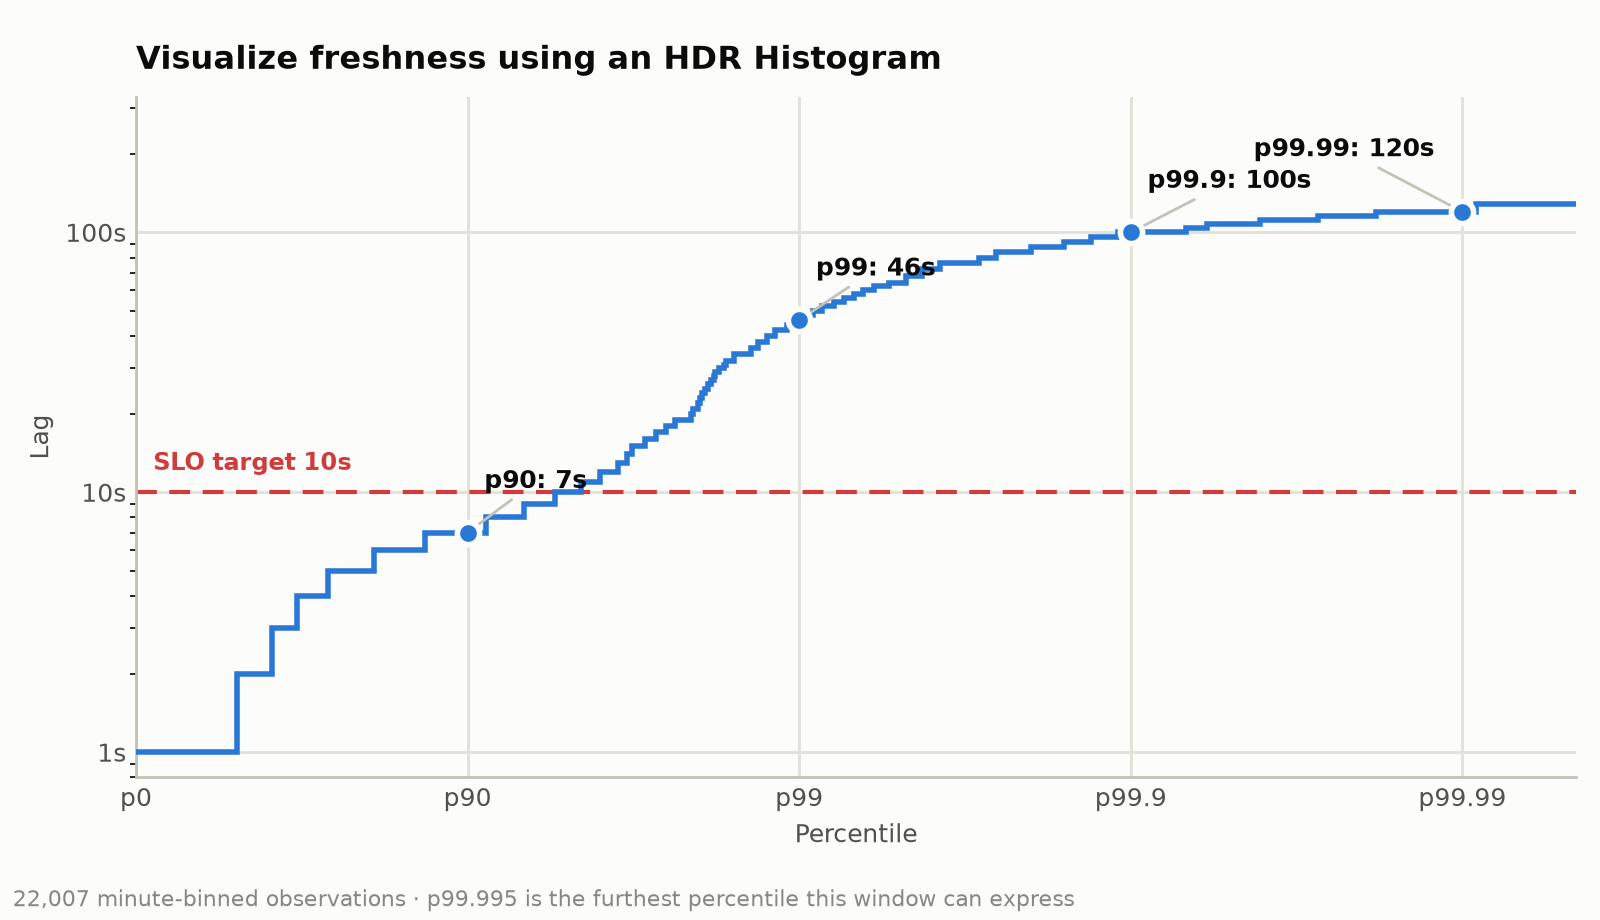
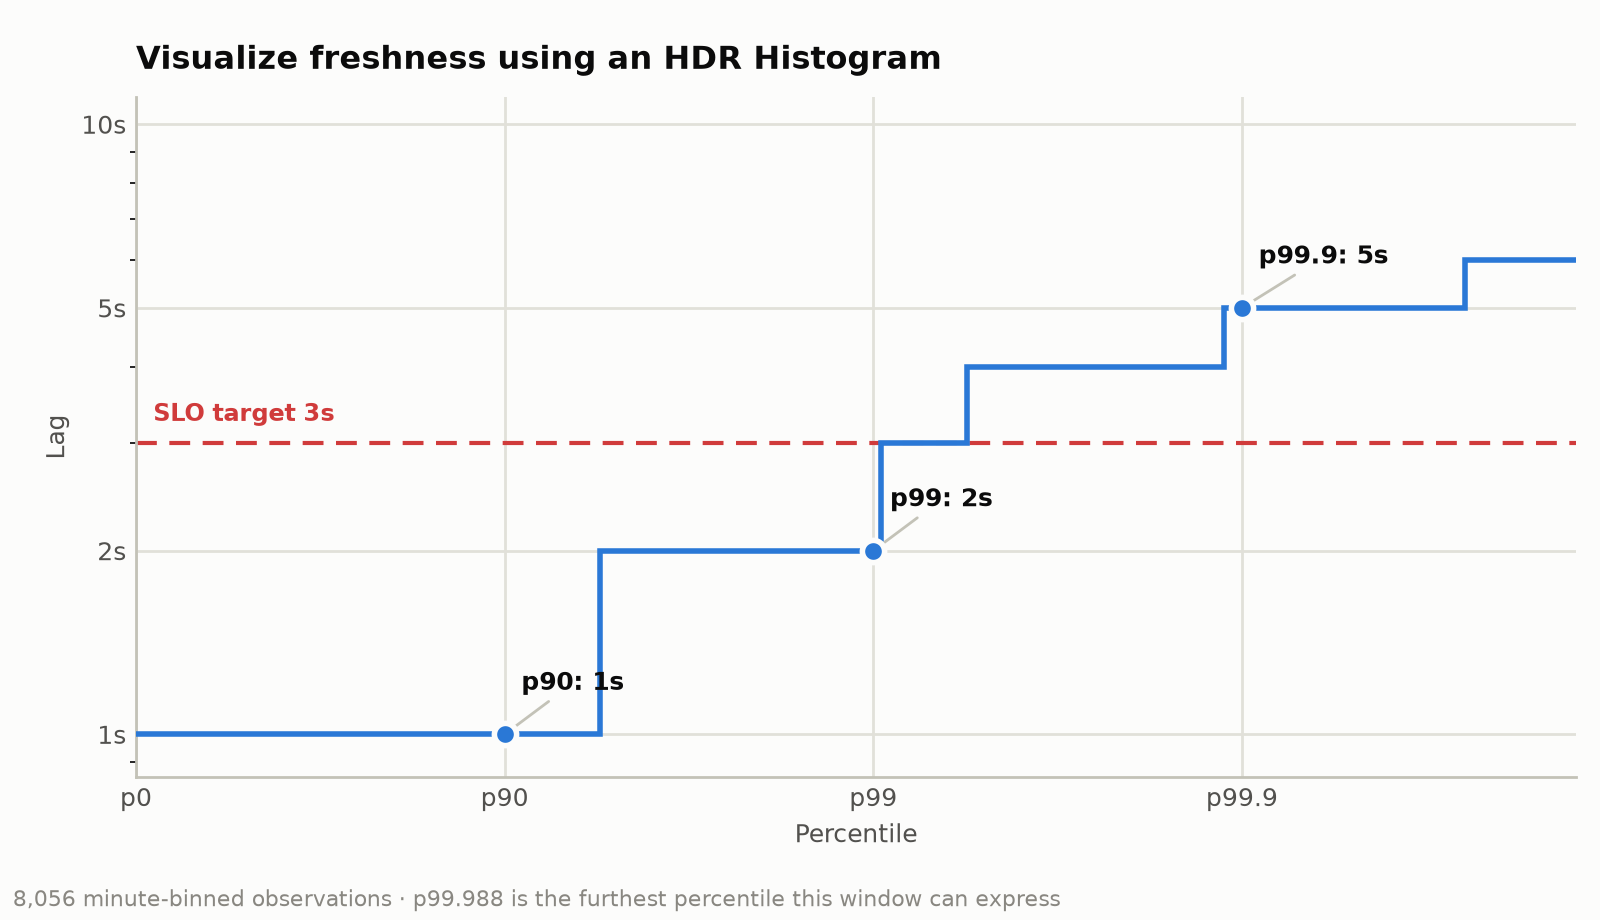
docs: regenerate the freshness figure from a healthy instance
The previous figure came from an instance pushed into sustained overload, with
lag reaching about 150s and an incident episode filling roughly 40% of the
retention window. It read as an instance in crisis rather than one a reader
would recognize, and its p90 of 7s and p99 of 46s set the wrong expectation for
what healthy freshness looks like.

Regenerate from a moderate steady workload: 94% of observations at 1s, p99 of
2s, and a short tail to 6s. The SLO line moves from 10s to 3s, which the curve
actually crosses, so the crossing has something to show.

The bucket-widening paragraph went with it. That claim pointed at 4s and 8s
bucket steps visible in the old output, and a tail of a few seconds has no
widening to see, so it now states what bounds the bucket count instead.

Both query outputs come from the same snapshot as the figure. The CCDF section's
existing sample output also reproduces exactly on this instance.

diff --git a/doc/user/content/transform-data/monitor-freshness.md b/doc/user/content/transform-data/monitor-freshness.md
@@ -240,33 +240,20 @@ The query returns output like the following:
 ```none
  bucket_seconds | count_of_bucket_values | cumulative_count | cumulative_density
 ----------------+------------------------+------------------+--------------------
-              1 |                  11082 |            11082 |   0.50356704684873
-              2 |                   2368 |            13450 |  0.611169173444813
-              3 |                   1367 |            14817 | 0.6732857727086836
-              4 |                   1382 |            16199 | 0.7360839732812287
-              5 |                   1594 |            17793 | 0.8085154723497069
-              6 |                   1253 |            19046 | 0.8654519016676512
-              7 |                   1018 |            20064 | 0.9117099104830281
-              8 |                    455 |            20519 | 0.9323851501794883
-              9 |                    289 |            20808 |  0.945517335393284
-             10 |                    196 |            21004 | 0.9544235924932976
-             11 |                    124 |            21128 | 0.9600581633116736
-...
-            100 |                      9 |            21992 | 0.9993183986913254
-            104 |                      2 |            21994 | 0.9994092788658154
-            108 |                      4 |            21998 | 0.9995910392147953
-            112 |                      3 |            22001 | 0.9997273594765302
-            116 |                      2 |            22003 | 0.9998182396510201
-            120 |                      2 |            22005 | 0.9999091198255101
-            128 |                      1 |            22006 | 0.9999545599127551
-            152 |                      1 |            22007 |                  1
-(64 rows)
+              1 |                   7613 |             7613 | 0.9450099304865939
+              2 |                    366 |             7979 |  0.990441906653426
+              3 |                     32 |             8011 | 0.9944141012909633
+              4 |                     36 |             8047 | 0.9988828202581926
+              5 |                      7 |             8054 | 0.9997517378351539
+              6 |                      2 |             8056 |                  1
+(6 rows)
 ```
 
-The bucket widening is visible in the output above. Near 1s every integer gets a
-bucket of its own. Around 100s the buckets step by 4s, and past 128s by 8s. Four
-bits of significand precision hold every bucket to within about 6% of the values
-it contains, so the bucket count stays bounded however far the tail runs.
+Every bucket here is a whole number of seconds, because at this range 4 bits of
+significand precision is finer than the 1s resolution of the measurement itself.
+The buckets only start to widen further out, and 4 bits hold every one of them to
+within about 6% of the values it contains, so the bucket count stays bounded
+however far the tail runs.
 
 To read a percentile, take the lowest bucket whose cumulative density reaches
 it. Wrapping the distribution in one more CTE and filtering on
@@ -316,7 +303,7 @@ LIMIT 1;
 ```none
  approximate_p99
 -----------------
-              46
+               2
 (1 row)
 ```
 
